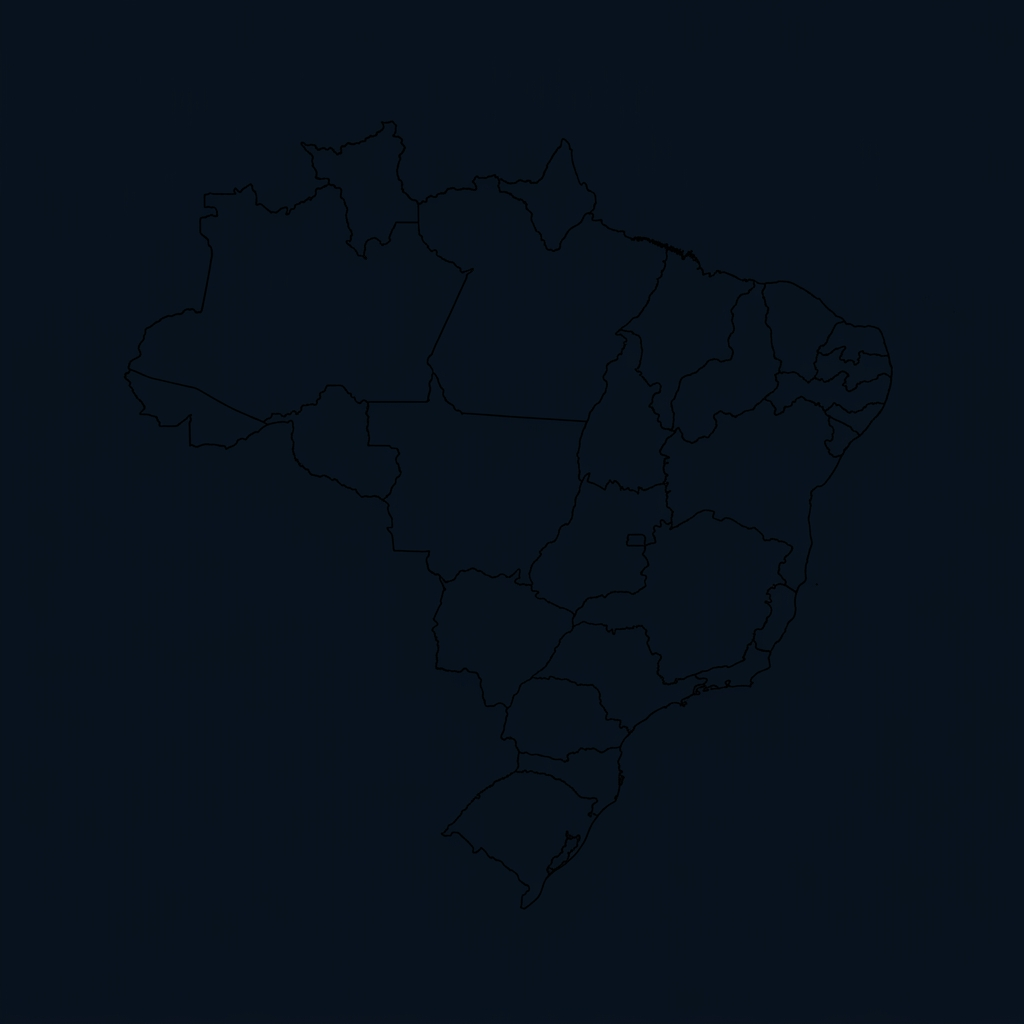
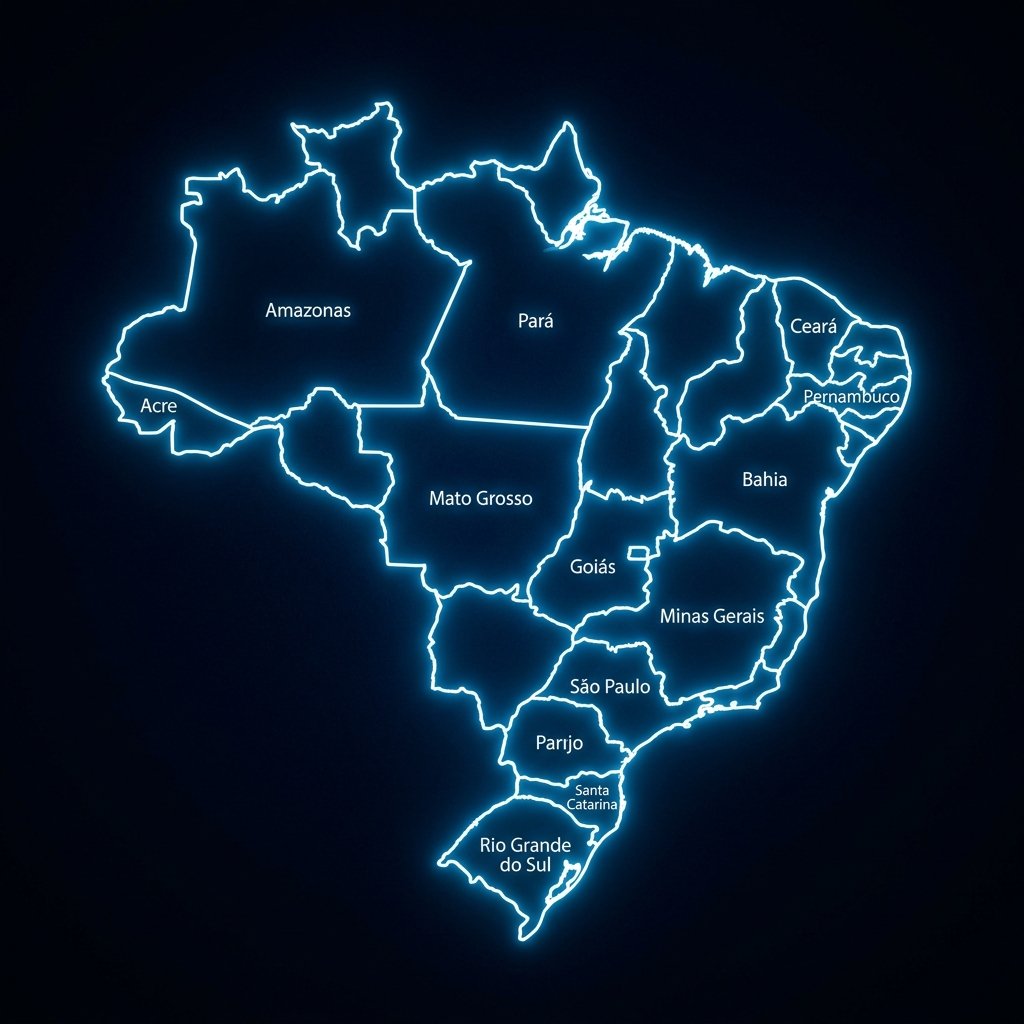
fix: layout e nova imagem do mapa limpa

diff --git a/app/login/page.tsx b/app/login/page.tsx
@@ -28,7 +28,7 @@ export default function LoginPage() {
   };
 
   return (
-    <div className="w-screen min-h-screen flex items-center justify-center p-5 bg-[#0a0c12] bg-[url('/login-bg.png')] bg-no-repeat bg-center bg-contain md:bg-cover">
+    <div className="flex-1 w-full min-h-screen flex items-center justify-center p-5 bg-[#0a0c12] bg-[url('/login-bg.png')] bg-no-repeat bg-center bg-contain md:bg-cover">
       <div className="flex flex-col w-full max-w-[600px] rounded-[24px] shadow-[0_30px_60px_rgba(0,0,0,0.6)] overflow-hidden border border-white/10 backdrop-blur-[20px] bg-[#0a0c14]/70">
         
         <div className="p-8 md:p-10 flex flex-col justify-center">